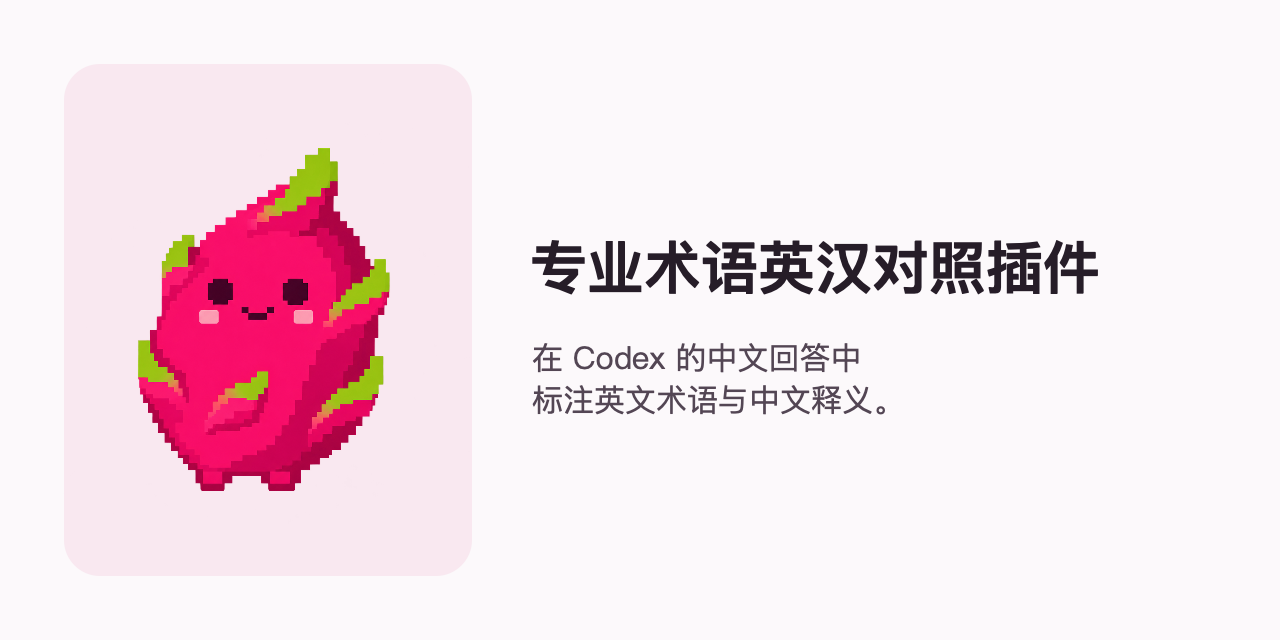
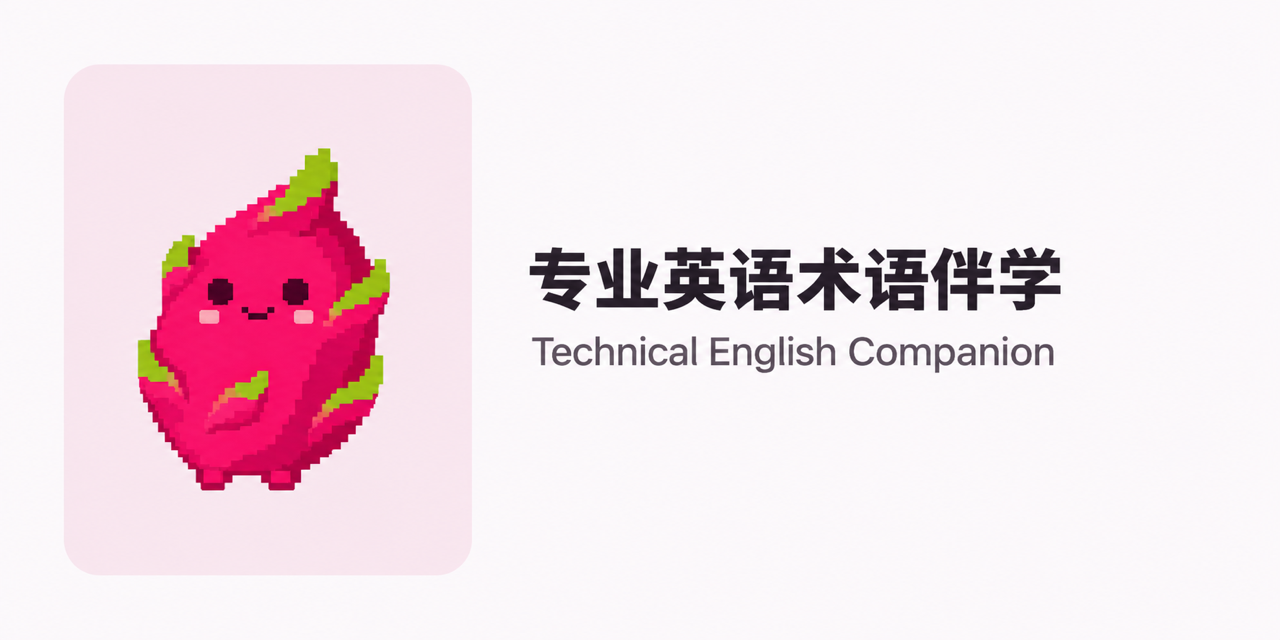
Rename the plugin to Technical English Companion for v2.0.2

diff --git a/README.md b/README.md
@@ -1,65 +1,27 @@
 <img src="assets/pitaya-icon.png" alt="像素小火龙果图标" width="80" height="80">
 
-# 专业术语英汉对照插件 v2.0.1 · Mac 版
+# 专业英语术语伴学
 
-帮助学生和编程初学者边做项目，边学习专业英语。支持 Mac 上的 Codex 和 DeepSeek Harness（DSH）。
+**Technical English Companion · Mac v2.0.2**
 
-## 本版更新
-
-- 修复 DSH 升级到 `0.2.2-rc.1` 后，因旧版精确宿主要求而无法加载本包的问题。
-- DSH 宿主要求更新为 `0.2.1-rc.3 || 0.2.2-rc.1`，保留原先已验证版本的支持。
-- 术语规则、DSH 加载入口及 Codex 钩子保持原样：同一条回答中首次写 `Cache（缓存）`，后续统一写 `Cache`。
+在 Codex 或 DeepSeek Harness（DSH）里讨论软件开发时，中文回答首次提到关键术语会附上英文名称和简短释义，同一条回答再次提到时沿用英文。此正式版面向中文对话，适用于 macOS。
 
 ## 下载
 
-- [两端共用的源码 ZIP](https://github.com/Calliope-Nicles/technical-terms-en-zh-plugin/releases/download/v2.0.1/technical-terms-en-zh-2.0.1.zip)：供 Codex 安装，也可供 DSH 从文件夹安装。
-- [DSH 专用安装包](https://github.com/Calliope-Nicles/technical-terms-en-zh-plugin/releases/download/v2.0.1/dsh-plugin-technical-terms-en-zh-2.0.1.tgz)：解压后使用其中的 `package/` 文件夹。
-- [SHA-256 校验清单](https://github.com/Calliope-Nicles/technical-terms-en-zh-plugin/releases/download/v2.0.1/SHA256SUMS)。
+- [Codex 安装包（ZIP）](https://github.com/Calliope-Nicles/technical-english-companion/releases/download/v2.0.2/technical-english-companion-2.0.2.zip)
+- [DSH 安装包（TGZ）](https://github.com/Calliope-Nicles/technical-english-companion/releases/download/v2.0.2/dsh-plugin-technical-english-companion-2.0.2.tgz)
+- [SHA-256 校验清单](https://github.com/Calliope-Nicles/technical-english-companion/releases/download/v2.0.2/SHA256SUMS)
 
-使用发行包无需自行构建，也无需安装 Python。
+## 安装或从旧版切换
 
-## DSH 安装与升级
+**Codex**：解压 ZIP，在「插件 → 添加 → 添加插件市场」选择解压后包含 `.agents/plugins/marketplace.json` 的文件夹。选择 **Technical English Companion** 来源中的同名插件，核对标识 `technical-english-companion@technical-english-companion-public` 和版本 `2.0.2`。在「设置 → 钩子」审阅并信任 `SessionStart`，它通过 `/bin/cat` 读取包内的 `src/terminology.md`。新建对话后即可使用。
 
-本版适用于 macOS 的 DSH `0.2.1-rc.3` 和 `0.2.2-rc.1`，安装时会检查平台及宿主版本。
+**DSH**：适用于 Mac 版 `0.2.1-rc.3` 和 `0.2.2-rc.1`。在「插件 → 添加插件」输入 `github:Calliope-Nicles/technical-english-companion#v2.0.2`，或下载上面的 TGZ 并通过宿主安装。确认包名 `dsh-plugin-technical-english-companion`、版本 `2.0.2`，启用后按宿主提示重启并新建对话。
 
-1. 在 DSH 侧栏的 **插件** 页点击 **添加插件**，在 **包名或地址** 中填写 `github:Calliope-Nicles/technical-terms-en-zh-plugin#v2.0.1`。也可解压发行包，填写含 `package.json` 和 `cordis.patch.yml` 的文件夹绝对路径。
-2. 核对包名 `dsh-plugin-technical-terms-en-zh` 和版本 `2.0.1`，确认安装。
-3. 点击 **立即启用**，或打开列表中本包的开关；核对详情中有 **1 个组件运行中**。
-4. 如提示需要重启，或仍显示旧来源及版本，完全退出并重开 DSH。
-5. 新建空白对话，用下文的问题检查效果。
+从更早版本迁移时，宿主会把新标识识别为另一个插件。先停用此前安装的版本，再启用新版本，以免同一条规则载入两次。卸载时在各自宿主中选择对应来源和包名。
 
-Mac 默认桌面配置也可使用 DSH 自带的 CLI（命令行工具）升级，再重开 DSH 核对版本和运行状态：
+## 使用示例
 
-```sh
-'/Applications/DeepSeek Harness.app/Contents/Resources/runtime/cli/bin/dsh' \
-  plugin --profile desktop add \
-  'github:Calliope-Nicles/technical-terms-en-zh-plugin#v2.0.1' \
-  --ignore-scripts
-```
+问「缓存有什么作用，什么时候应该更新？」时，第一次提到会写 `Cache（缓存）`，同条后续写 `Cache`。新的一条回答首次出现时会再次附上释义。用户明确指定的表达方式优先。
 
-从文件夹安装时，请保留该文件夹的位置与内容。停用使用本包的列表开关，卸载使用本包的 **卸载** 按钮；新建对话后检查规则是否撤销。
-
-## Codex 安装
-
-1. 下载源码 ZIP 并解压，保留解压后的文件夹。
-2. 在 Finder（访达）中选中文件夹，按 `⌥⌘C` 复制绝对路径。
-3. 在 Codex 的 **插件 → 添加 → 添加插件市场** 中填入该路径，添加市场。
-4. 选择 **小火龙果** 来源，安装 `technical-terms-en-zh`，核对版本为 `2.0.1`。
-5. 打开 **设置 → 钩子**，审阅本包的 SessionStart（会话开始钩子）。确认命令使用 `/bin/cat` 读取安装目录中的 `src/terminology.md`，再点击 **信任**。
-6. 新建本地对话，用下文的问题检查效果。
-
-从旧的本地来源升级时，先卸载旧版，再移除旧市场来源，随后按上述步骤添加新文件夹并安装。更新后重新核对版本及信任状态，保持一个术语插件来源启用。[钩子配置](https://github.com/Calliope-Nicles/technical-terms-en-zh-plugin/blob/v2.0.1/hooks/hooks.json) · [Codex 钩子说明](https://learn.chatgpt.com/docs/hooks#review-and-trust-hooks)
-
-## 确认效果
-
-新建空白对话，发送原问题即可：
-
-> 请用三句话解释缓存的作用、缓存过期的影响，以及更新缓存的时机。每句话都明确提到缓存。只作解释，不读取文件、不调用工具。
-
-同一条回答中，首次应看到 `Cache（缓存）`，后续只写 `Cache`；另发一条追问时重新释义。也可以临时要求“这次只用中文，不标英文术语”，下一条普通提问会恢复默认规则。
-
-## 验证范围
-
-本次在 Mac DSH `0.2.2-rc.1` 使用应用自带服务检查了归档内容、版本判断、规则加载、停用清理和缺失文件报错，并在独立配置中检查了原生安装。`0.2.1-rc.3` 的版本判断同时通过；此前真实问答验收对应 `v2.0.0`，本次兼容性修订未发送模型请求，也未重做当前 Codex 桌面的安装与问答验收。Windows 和其他 DSH 版本尚未验证。
-
-项目采用 MIT 许可证。安装或使用遇到问题，可在仓库提交反馈。[术语规则](https://github.com/Calliope-Nicles/technical-terms-en-zh-plugin/blob/v2.0.1/src/terminology.md) · [DSH 入口](https://github.com/Calliope-Nicles/technical-terms-en-zh-plugin/blob/v2.0.1/src/dsh/index.mjs) · [许可证](https://github.com/Calliope-Nicles/technical-terms-en-zh-plugin/blob/v2.0.1/LICENSE) · [问题反馈](https://github.com/Calliope-Nicles/technical-terms-en-zh-plugin/issues)
+[术语规则](https://github.com/Calliope-Nicles/technical-english-companion/blob/v2.0.2/src/terminology.md) · [报告问题](https://github.com/Calliope-Nicles/technical-english-companion/issues) · [MIT 许可证](https://github.com/Calliope-Nicles/technical-english-companion/blob/v2.0.2/LICENSE)
